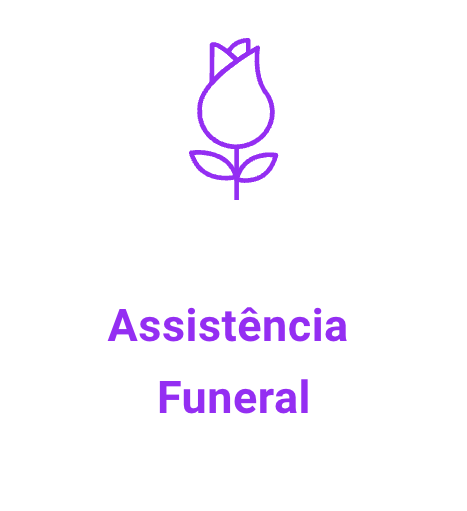
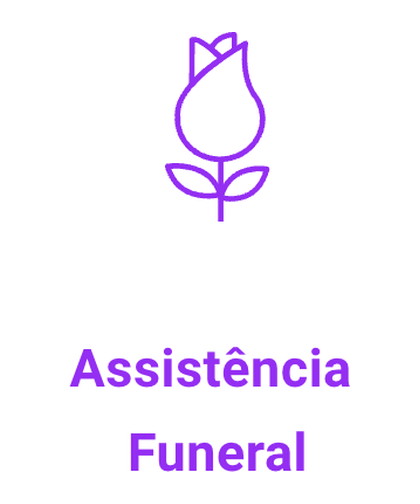
Turn vida coverage cards into interactive buttons.
Hover or tap a coverage reveals the description on the purple card from the old site, and a second tap closes it.

Changed region(s): [[0.1548, 0.5952, 0.8357, 0.9524], [0.3714, 0.0595, 0.65, 0.4464]]

diff --git a/src/app/(main)/vida/page.tsx b/src/app/(main)/vida/page.tsx
@@ -4,6 +4,7 @@ import { ArrowRightIcon } from "lucide-react";
 import { CtaBand } from "@/components/cta-band";
 import { Hero } from "@/components/hero";
 import { JsonLd } from "@/components/json-ld";
+import { VidaCoverageCards } from "@/components/vida-coverage-cards";
 import { createPageMetadata } from "@/lib/seo";
 import {
   siteConfig,
@@ -46,43 +47,61 @@ function InfoCards({
   simulateHref,
   items,
   tone = "white",
+  variant = "stack",
 }: {
   title: string;
   intro: string;
   simulateHref: string;
   items: readonly { title: string; body: string; image: string }[];
   tone?: "white" | "canvas";
+  variant?: "stack" | "legacy";
 }) {
+  const legacy = variant === "legacy";
+
   return (
     <section
       className={`py-16 sm:py-20 ${tone === "canvas" ? "bg-[var(--edias-canvas)]" : "bg-white"}`}
     >
-      <div className="mx-auto max-w-6xl px-4 sm:px-6 lg:px-8">
-        <h2 className="max-w-3xl font-heading text-3xl font-semibold text-[var(--edias-navy)]">
+      <div className={`mx-auto max-w-6xl px-4 sm:px-6 lg:px-8 ${legacy ? "text-center" : ""}`}>
+        <h2
+          className={`font-heading text-3xl font-semibold text-[var(--edias-navy)] ${
+            legacy ? "mx-auto max-w-3xl" : "max-w-3xl"
+          }`}
+        >
           {title}
         </h2>
-        <p className="mt-3 max-w-2xl text-[var(--edias-ink-muted)]">{intro}</p>
-        <ul className="mt-10 grid gap-6 sm:grid-cols-2 lg:grid-cols-5">
-          {items.map((item) => (
-            <li key={item.title} className="flex flex-col items-center text-center">
-              <Image
-                src={item.image}
-                alt={item.title}
-                width={184}
-                height={208}
-                className="h-auto w-[168px]"
-              />
-              <p className="mt-3 text-sm leading-relaxed text-[var(--edias-ink-muted)]">
-                {item.body}
-              </p>
-            </li>
-          ))}
-        </ul>
-        <div className="mt-10">
+        <p
+          className={`mt-3 text-[var(--edias-ink-muted)] ${
+            legacy ? "mx-auto max-w-2xl" : "max-w-2xl"
+          }`}
+        >
+          {intro}
+        </p>
+        {legacy ? (
+          <VidaCoverageCards items={items} />
+        ) : (
+          <ul className="mt-10 grid grid-cols-2 gap-4 sm:grid-cols-3 lg:grid-cols-5">
+            {items.map((item) => (
+              <li key={item.title} className="flex flex-col items-center text-center">
+                <Image
+                  src={item.image}
+                  alt={item.title}
+                  width={184}
+                  height={208}
+                  className="h-auto w-[168px]"
+                />
+                <p className="mt-3 text-sm leading-relaxed text-[var(--edias-ink-muted)]">
+                  {item.body}
+                </p>
+              </li>
+            ))}
+          </ul>
+        )}
+        <div className={`mt-10 ${legacy ? "flex justify-center" : ""}`}>
           <ExternalAction
             href={vidaSimulateHref(simulateHref)}
             label="Simule agora"
-            className={outlineButton}
+            className={legacy ? "v2-btn v2-btn-accent" : outlineButton}
           />
         </div>
       </div>
@@ -158,7 +177,7 @@ export default function VidaPage() {
         </div>
       </section>
 
-      <InfoCards {...vidaCoverageSection} />
+      <InfoCards {...vidaCoverageSection} variant="legacy" />
       <InfoCards {...vidaBenefitSection} tone="canvas" />
 
       <CtaBand

diff --git a/src/components/vida-coverage-cards.tsx b/src/components/vida-coverage-cards.tsx
@@ -1,0 +1,53 @@
+"use client";
+
+import { useState } from "react";
+import Image from "next/image";
+
+type CoverageItem = {
+  title: string;
+  body: string;
+  image: string;
+};
+
+export function VidaCoverageCards({ items }: { items: readonly CoverageItem[] }) {
+  const [open, setOpen] = useState<string | null>(null);
+  const [hovered, setHovered] = useState<string | null>(null);
+
+  return (
+    <ul className="mt-10 grid grid-cols-2 justify-items-center gap-x-5 gap-y-6 sm:grid-cols-3 sm:gap-x-6 lg:grid-cols-5">
+      {items.map((item) => {
+        const isOpen = open === item.title;
+        const shown = isOpen || hovered === item.title;
+        return (
+          <li key={item.title} className="w-full max-w-[205px]">
+            <button
+              type="button"
+              aria-expanded={shown}
+              aria-label={item.title}
+              data-open={shown ? "true" : "false"}
+              onClick={() => setOpen(isOpen ? null : item.title)}
+              onPointerEnter={(event) => {
+                if (event.pointerType === "mouse") setHovered(item.title);
+              }}
+              onPointerLeave={(event) => {
+                if (event.pointerType === "mouse") setHovered(null);
+              }}
+              className="group relative block aspect-[420/504] w-full cursor-pointer overflow-hidden rounded-[10px] border-0 bg-white p-0 shadow-[0_10px_28px_rgba(5,46,68,0.14)] transition duration-500 ease-in-out hover:-translate-y-1 hover:bg-[#9631fa] hover:shadow-[0_18px_40px_rgba(150,49,250,0.28)] focus-visible:bg-[#9631fa] focus-visible:outline focus-visible:outline-2 focus-visible:outline-offset-2 focus-visible:outline-[#9631fa] data-[open=true]:-translate-y-1 data-[open=true]:bg-[#9631fa] data-[open=true]:shadow-[0_18px_40px_rgba(150,49,250,0.28)]"
+            >
+              <Image
+                src={item.image}
+                alt=""
+                width={420}
+                height={504}
+                className="pointer-events-none absolute inset-0 h-full w-full object-cover transition-opacity duration-500 ease-in-out group-hover:opacity-0 group-focus-visible:opacity-0 group-data-[open=true]:opacity-0"
+              />
+              <span className="pointer-events-none absolute inset-0 flex items-center justify-center px-3 text-center text-[13px] leading-snug font-bold text-white opacity-0 transition-opacity duration-500 ease-in-out group-hover:opacity-100 group-focus-visible:opacity-100 group-data-[open=true]:opacity-100">
+                {item.body}
+              </span>
+            </button>
+          </li>
+        );
+      })}
+    </ul>
+  );
+}

diff --git a/src/lib/site.ts b/src/lib/site.ts
@@ -610,7 +610,7 @@ export const vidaCoverageSection = {
     },
     {
       title: "Doenças graves",
-      body: "Proteção no diagnóstico de uma doença grave, como câncer, AVC, Parkinson e Alzheimer. São 30 doenças, a maior cobertura do Brasil.",
+      body: "Proteção para você em caso do diagnóstico de uma doença grave, como câncer, AVC, Parkinson e Alzheimer. São 30 doenças, a maior cobertura do Brasil.",
       image: "/images/vida/coberturas/doencas-graves.png",
     },
     {
@@ -620,7 +620,7 @@ export const vidaCoverageSection = {
     },
     {
       title: "Assistência funeral",
-      body: "Familiares ou amigos acionam o serviço e recebem o auxílio necessário nesse momento.",
+      body: "Caso você venha a faltar, seus familiares ou amigos podem acionar o serviço e recebem o auxílio necessário nesse momento.",
       image: "/images/vida/coberturas/funeral.png",
     },
   ],
